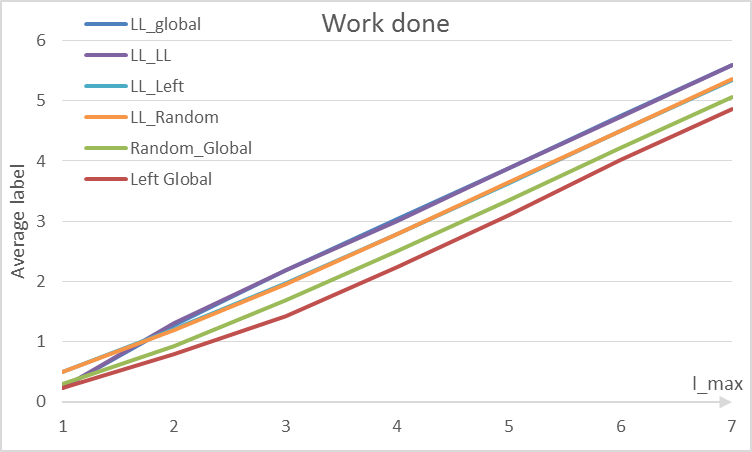
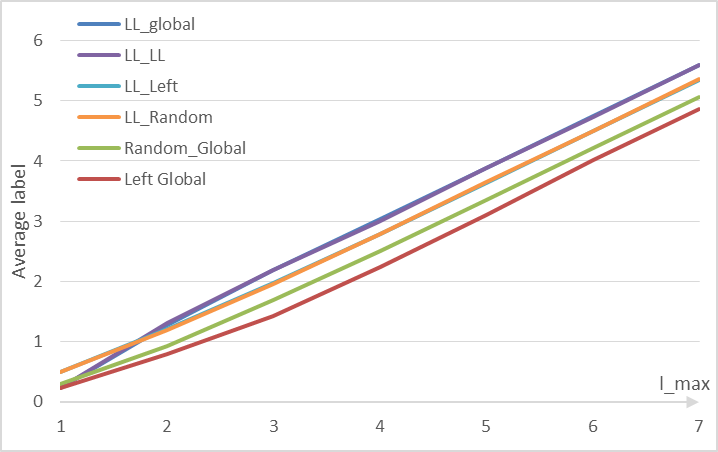
version 0.2 of paper is up

diff --git a/README.md b/README.md
@@ -4,7 +4,12 @@ Alain Espinosa <alainesp@gmail.com>
 
 `Published: May 16, 2018`
 
-`Last Edited: May 16, 2018` (version 0.1 - consider it *beta* version or *FIRST DRAFT*)
+`Last Edited: May 19, 2018` (version 0.2 - consider it *beta* version or *2nd DRAFT*)
+
+- Better strategies comparison.
+- Threshold checking.
+
+version 0.1 (Initial)
 
 ### Abstract
 
@@ -180,57 +185,65 @@ We fist try the tie-breaking strategies for the `(2,4)`-scheme with 10<sup>5</su
 
 Table 2: Comparing tie-breaking strategies (cells contain average table use with variance)
 
-It is clear from table 2 that the **Least-Loaded (LL)** strategy provides the fastest convergence; but all converges quickly: at **l<sub>max</sub>=5** all strategies reach **98%** table use. Note that the variance converges to `0.2%` quickly too. For **l<sub>max</sub>=2** the difference between the best and worst strategy is `24%`. The difference between the best and random is `15%`. Even for **l<sub>max</sub>=3** the difference between the best and random is `2%` with is significant given the high table use. We conclude that a good tie-breaking strategy is very important for an optimal convergence.
+The **Least-Loaded (LL)** strategy provides the fastest convergence; but all converges quickly: at **l<sub>max</sub>=5** all strategies reach **98%** table use. Note that the variance converges to `0.2%` quickly too. For **l<sub>max</sub>=2** the difference between the best and worst strategy is `24%`. The difference between the best and random is `15%`. Even for **l<sub>max</sub>=3** the difference between the best and random is `2%` with is significant given the high table use. We conclude that a good tie-breaking strategy is important for an optimal convergence.
 
-We are not only interested in table use, but also in the amount of work done. This can be measured by the average label **l<sub>avg</sub>** at each state. We test different **l<sub>max</sub>** values in Figure 1 with the same `(2,4)`-scheme with 10<sup>5</sup> bins.
+We are not only interested in table use, but also in other metrics. The average label **l<sub>avg</sub>** is one of them. We test different **l<sub>max</sub>** values in Figure 1 with the same `(2,4)`-scheme with 10<sup>5</sup> bins.
 
 ![Work done](/imgs/strategies_work_done.png)
 
-**Figure 1**: Comparing work done by tie-breaking strategies
+**Figure 1**: Comparing average label by tie-breaking strategies
 
-We can see that the amount of work done is similar for similar table use independently of the strategy. Also **l<sub>avg</sub>** depends linearly with **l<sub>max</sub>**. We select the strategy **LL Left** because had good convergence, is fast to calculate (no need to check alternate locations that may require a hash done) and may permit better coding of labels to reduce it's size. This strategy is used in all the remaining experiments.
+We can see that **l<sub>avg</sub>** is similar for similar table use independently of the strategy. Also **l<sub>avg</sub>** depends linearly with **l<sub>max</sub>**.
 
-We now try common schemes of cuckoo hashing to see how they behaves in figure 2, again with 10<sup>5</sup> bins.
+We measure how efficient each strategy are by checking table use at average moves per item. An item is moved when is kicked-out of a position in a bucket. Figure 2 show data for the `(2,4)`-scheme with 10<sup>5</sup> bins.
+
+![Work done](/imgs/strategies_table_use_per_moves.png)
+
+**Figure 2**: Comparing work done by tie-breaking strategies
+
+Again the **Least-Loaded (LL)** strategy is the more efficient with **LL_Global** leading. The results are similar to table 2. We select the strategy **LL Left** because it had good convergence, is fast to calculate (no need to check alternate locations that may require a hash done) and may permit better coding of labels to reduce it's size. This strategy is used in all the remaining experiments.
+
+We now try common schemes of cuckoo hashing to see how they behaves in figure 3, again with 10<sup>5</sup> bins.
 
 ![Compare schemes](/imgs/compare_schemes.png)
 
-**Figure 2**: Table use of common cuckoo schemes given **l<sub>max</sub>**
+**Figure 3**: Table use of common cuckoo schemes given **l<sub>max</sub>**
 
-It is clear from figure 2 that all schemes exhibit similar behavior: a `very small constant` (`<7`) **l<sub>max</sub>** when the maximum table use is reached and then increases of **l<sub>max</sub>** don't increases the table use.
+All schemes appear to exhibit similar behavior: a `very small constant` (`<7`) **l<sub>max</sub>** when the maximum table use is reached and then increases of **l<sub>max</sub>** don't increases the table use.
 
-The variance (`average_value - minimum_value`) is similar to table 2, but we perform an additional experiment. We check how table use is distributed again distances to the average value. We repeat the process `10 000` times for the different schemes in figure 3. We use the **l<sub>max</sub>** values of table 3.
+The variance (`average_value - minimum_value`) is similar to table 2, but we perform an additional experiment. We check how table use is distributed again distances to the average value. We repeat the process `10 000` times for the different schemes in figure 4. We use the **l<sub>max</sub>** values of table 3.
 
 ![Schemes errors](/imgs/schemes_errors.png)
 
-**Figure 3**: Distribution of table use given distances to the average.
+**Figure 4**: Distribution of table use given distances to the average.
 
-It is clear from figure 3 that given a fixed value of `d` increasing `k` tighten the distribution around the average. It is a little perplexing that given a fixed `k` increasing `d` increases the number near average (`<0.1%`), but also expand the distribution increasing the numbers away from average (`≥0.3%`) in `(d,k=2,4)`-schemes. In any case the errors are minimal: for a distance `<0.5%` all schemes had probability `>99%` and many near `100%`. This is consistent with the existence of thresholds for random graphs.
+From figure 4 it is implied that given a fixed value of `d` increasing `k` tighten the distribution around the average. It is a little perplexing that given a fixed `k` increasing `d` increases the number near average (`<0.1%`), but also expand the distribution increasing the numbers away from average (`≥0.3%`) in `(d,k=2,4)`-schemes. In any case the errors are minimal: for a distance `<0.5%` all schemes had probability `>99%` and many near `100%`. This is consistent with the existence of thresholds for random graphs.
 
 From this experiments we can produce the following proposition:
 
 **Proposition 1**: *For each `(d,k)`-scheme we can select a *very small constant* **l<sub>max</sub>** that with high probability results in table use similar to the best theoretically. Higher **l<sub>max</sub>** gives infinitesimal small increases in table use.*
 
-We are interested in how much *constant* **l<sub>max</sub>** really is, as it theoretically may depend on the table size `n`. We try the `(2,4)`-scheme with different table sizes in figure 4. It is clear that for all practical choices of `n` (until 1 billion in this test) we can choose a *very small* **l<sub>max</sub>** (in this case `3` or `4`) that is practically independent of `n`. For example for **l<sub>max</sub> = 3** the drop in table use was `1%` when comparing 10<sup>2</sup> to 10<sup>9</sup>. With **l<sub>max</sub> = 4** the drop is only `0.45%`. We can expect to handle trillions of elements and continue to consider **l<sub>max</sub>** a *constant*.
+We are interested in how much *constant* **l<sub>max</sub>** really is, as it theoretically may depend on the table size `n`. We try the `(2,4)`-scheme with different table sizes in figure 5. It shows that for all practical choices of `n` (until 1 billion in this test) we can choose a *very small* **l<sub>max</sub>** (in this case `3` or `4`) that is practically independent of `n`. For example for **l<sub>max</sub> = 3** the drop in table use was `1%` when comparing 10<sup>2</sup> to 10<sup>9</sup>. With **l<sub>max</sub> = 4** the drop is only `0.45%`. We can expect to handle trillions of elements and continue to consider **l<sub>max</sub>** a *constant*.
 
 ![Compare schemes](/imgs/table_use_by_table_size.png)
 
-**Figure 4**: Table use by table size given different **l<sub>max</sub>**
+**Figure 5**: Table use by table size given different **l<sub>max</sub>**
 
 #### Lookup Tables
 
-Given the small size of labels and the efficient coding of them inside buckets we can consider implementing all label calculation as a table lookup, speeding-up the process significantly. We had `d` buckets of size **LB<sub>size</sub>** as input and as output a modified bucket labels **LB<sub>size</sub>** and `d*k` positions for the item to be placed. Given this the lookup table size can be calculated as:
+Given the small size of labels and the efficient coding of them inside buckets we can consider implementing all label calculation as a table lookup, speeding-up the process significantly. We had `d` buckets of size **LB<sub>size</sub>** as input and as output a modified bucket label **LB<sub>size</sub>** and `d*k` positions for the item to be placed. Given this the lookup table size can be calculated as:
 
 **LT<sub>size</sub> = LB<sub>size</sub><sup>d</sup> * (LB<sub>size</sub> + log<sub>2</sub> dk)**
 
-For the `(2,4)`-scheme this is `4.5 kb`, witch is reasonable. Note that this implementation is incredible fast on practical computers, faster than `Random Walk` for the selection of the element to be kicked-out. Other efficient implementation without lookup tables is possible given the way we code the labels (using masked comparison on minimum and popcount for **Least-Loaded** and item selection).
+For the `(2,4)`-scheme this is `4.5 kb`, witch is reasonable. Note that this implementation is incredible fast on practical computers, faster than `Random Walk` for the selection of the element to be kicked-out. Other efficient implementations without lookup tables are possible given the way we code the labels (using masked comparison on minimum and `popcount` for **Least-Loaded** and item selection).
 
-We implement the `(2,4)`-scheme with a lookup table and compare the performance with `Random Walk` for different table use in figure 5.
+We implement the `(2,4)`-scheme with a lookup table and compare the performance with `Random Walk` for different table use in figure 6.
 
 ![Compare schemes](/imgs/insertion_time.png)
 
-**Figure 4**: Comparing insertion time for `(2,4)`-scheme with 10<sup>5</sup> elements
+**Figure 6**: Comparing insertion time for `(2,4)`-scheme with 10<sup>5</sup> elements
 
-The insertion time curve is similar to [[9]] and [[10]], where `LSA` is introduced. **LSA<sub>max</sub>** increases the point of inflection of the curve by `5%` (note when they both surpass 200 ns).
+The insertion time curve is similar to [[9]] and [[10]], where `LSA` is introduced. **LSA<sub>max</sub>** increases the point of inflection of the curve by `5%` (note when they both surpass 200 ns) with respect to `Random Walk`.
 
 For hash tables when the maximum number of items is known, inserting up-to the maximum load is reasonable. But if you don't know this beforehand then it is probably better to grow the table when reaching `94%` (in this scheme) by a small grow factor. Note that with high insertion time as provided by **LSA<sub>max</sub>** a small grow is feasible.
 
@@ -245,13 +258,13 @@ Given all experiments performed we can now propose optimal parameters for the di
 |         | **Table use (LSA<sub>max</sub>)** | 89.7% (**l<sub>max</sub>**=8) | 95.5% (**l<sub>max</sub>**=4) | 98.0% (**l<sub>max</sub>**=4) | 99.6% (**l<sub>max</sub>**=2) |
 |         | **LB<sub>size</sub> (bit/elem)** | (3+2)/2=**2.5** | (2+3)/3=**1.7** | (2+4)/4=**1.5** | (1+8)/8=**1.1** |
 |         | **LT<sub>size</sub>** | 2<sup>5x2</sup>x(5+2)/8=**896 bytes** | 2<sup>5x2</sup>x(5+3)/8=**1 kb** | 2<sup>6x2</sup>x(6+3)/8=**4.5 kb** | 2<sup>9x2</sup>x(9+4)/8=**416 kb** |
-|         | **l<sub>avg</sub>**   | 3.6 | 2.3 | 2.8 | 1.6 |
+|         | **Moves per bin**   | 1.5 | 0.9 | 1.4 | 0.5 |
 | **d=3** | **Table use (Limit)** | 98.8% | 99.7% | 99.9% | 99.999% |
 |         | **Table use (RW)**  | 97.6% | 99.1% | 99.5% | 99.9% |
 |         | **Table use (LSA<sub>max</sub>)**       | 98.1% (**l<sub>max</sub>**=3) | 99.7% (**l<sub>max</sub>**=3) | 99.7% (**l<sub>max</sub>**=2) | 99.998% (**l<sub>max</sub>**=2) |
 |         | **LB<sub>size</sub> (bit/elem)** | (2+2)/2=**2** | (2+3)/3=**1.7** | (1+4)/4=**1.25** | (1+8)/8=**1.1** |
 |         | **LT<sub>size</sub>** | 2<sup>4x3</sup>x(4+3)/8=**3.5 kb** | 2<sup>5x3</sup>x(5+4)/8=**36 kb** | 2<sup>5x3</sup>x(5+4)/8=**36 kb** | 2<sup>9x3</sup>x(9+5)/8=**224 mb** |
-|         | **l<sub>avg</sub>**   | 2.0 | 2.4 | 1.6 | 1.8 |
+|         | **Moves per bin**   | 0.6 | 1.1 | 0.5 | 0.7 |
 
 Table 3: Proposed parameters/characteristics of **LSA<sub>max</sub>** for `(d,k)`-cuckoo scheme
 
